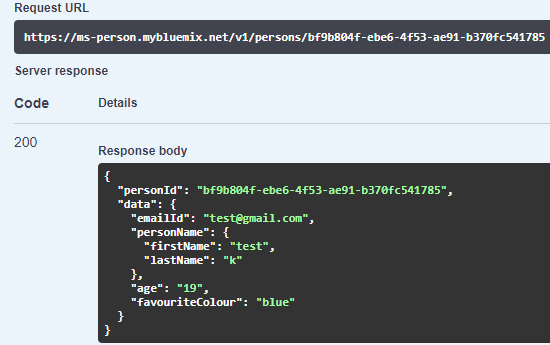
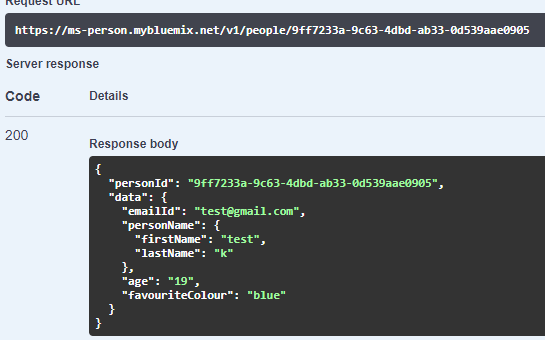
Updated output of this application

diff --git a/src/main/java/com/chandrakumar/ms/api/person/mapper/PersonMapper.java b/src/main/java/com/chandrakumar/ms/api/person/mapper/PersonMapper.java
@@ -20,7 +20,7 @@ public class PersonMapper {
 
         PersonListResponseDTO personListResponseDTO = new PersonListResponseDTO();
         personListResponseDTO.setCount(personDTOList.size());
-        personListResponseDTO.setPersons(personDTOList);
+        personListResponseDTO.setPeople(personDTOList);
         return personListResponseDTO;
     }
 

diff --git a/README.md b/README.md
@@ -60,7 +60,7 @@ This project for Person microservice and used lasted version spring boot, swagge
     
     Sample Output: please refer output folder
 
-POST: https://ms-person.mybluemix.net/v1/persons
+POST: https://ms-person.mybluemix.net/v1/people
 
 please change email id
 
@@ -77,7 +77,7 @@ please change email id
 output:
     
     {
-      "personId": "bf9b804f-ebe6-4f53-ae91-b370fc541785",
+      "personId": "9ff7233a-9c63-4dbd-ab33-0d539aae0905",
       "data": {
         "emailId": "test@gmail.com",
         "personName": {
@@ -89,10 +89,10 @@ output:
       }
     }
 
-GET   https://ms-person.mybluemix.net/v1/persons/bf9b804f-ebe6-4f53-ae91-b370fc541785
+GET   https://ms-person.mybluemix.net/v1/people/9ff7233a-9c63-4dbd-ab33-0d539aae0905
    
     {
-     "personId": "bf9b804f-ebe6-4f53-ae91-b370fc541785",
+     "personId": "9ff7233a-9c63-4dbd-ab33-0d539aae0905",
      "data": {
        "emailId": "test@gmail.com",
        "personName": {
@@ -104,7 +104,7 @@ GET   https://ms-person.mybluemix.net/v1/persons/bf9b804f-ebe6-4f53-ae91-b370fc5
      }
     }
   
-PUT  https://ms-person.mybluemix.net/v1/persons/bf9b804f-ebe6-4f53-ae91-b370fc541785
+PUT  https://ms-person.mybluemix.net/v1/people/9ff7233a-9c63-4dbd-ab33-0d539aae0905
 
     {
       "emailId": "test@gmail.com",
@@ -119,7 +119,7 @@ PUT  https://ms-person.mybluemix.net/v1/persons/bf9b804f-ebe6-4f53-ae91-b370fc54
  output:
     
     {
-      "personId": "bf9b804f-ebe6-4f53-ae91-b370fc541785",
+      "personId": "9ff7233a-9c63-4dbd-ab33-0d539aae0905",
       "data": {
         "emailId": "test@gmail.com",
         "personName": {
@@ -131,19 +131,19 @@ PUT  https://ms-person.mybluemix.net/v1/persons/bf9b804f-ebe6-4f53-ae91-b370fc54
       }
     }
 
-Delete: https://ms-person.mybluemix.net/v1/persons/bf9b804f-ebe6-4f53-ae91-b370fc541785
+Delete: https://ms-person.mybluemix.net/v1/people/9ff7233a-9c63-4dbd-ab33-0d539aae0905
      
-     refer output folder
+     refer output folder :: "delete-person.PNG"
 
-GET  https://ms-person.mybluemix.net/v1/persons
+GET  https://ms-person.mybluemix.net/v1/people
     show all list of person
     
-    refer output folder
+    refer output folder :: "get-person.PNG"
+    
 #### Error Message
     
     src/main/resources/messages.properties
-     
-    
+        
     
 ## Cloudfoundry
 
